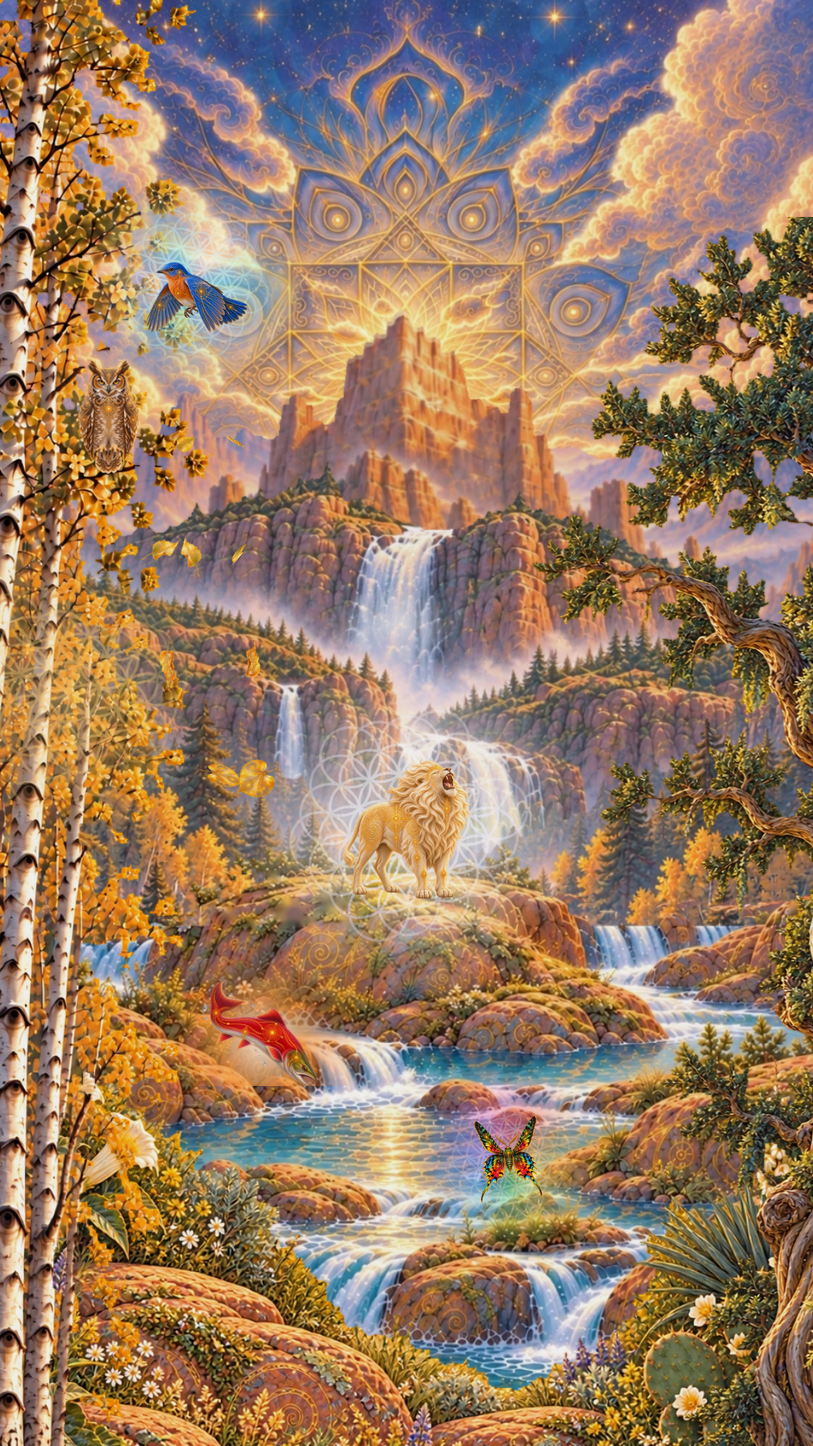
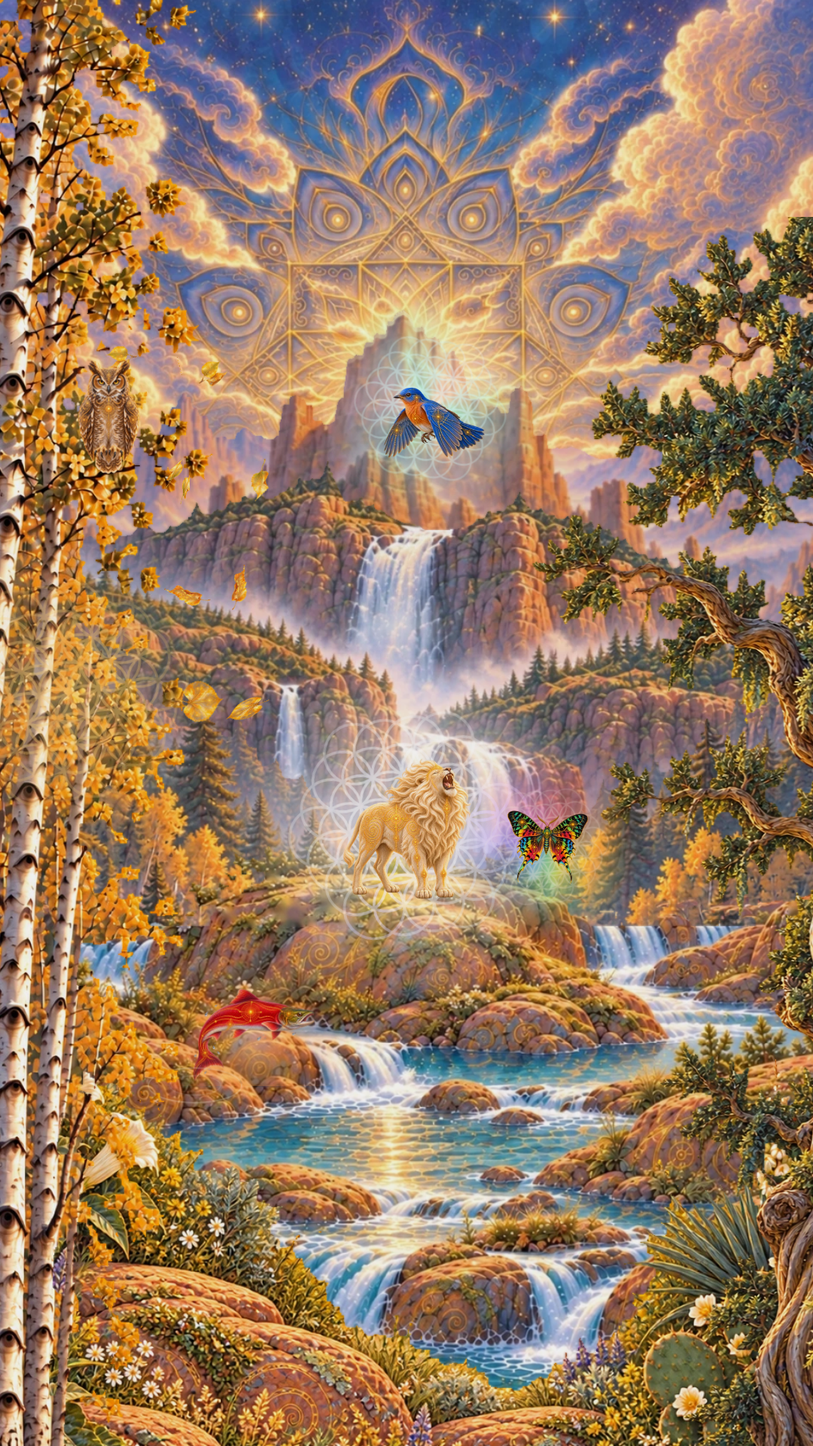
Roar retimed: finale frame at 1.35s (bluebird halfway across), shake and ripples done before it; lolo rests higher, salmon peaks on the frame, softer salmon halo
Claude-Session: https://claude.ai/code/session_01X5u2D9a4RRbbCvwnE6RQKF

diff --git a/frontend/src/components/site/journeyEngine.js b/frontend/src/components/site/journeyEngine.js
@@ -126,7 +126,7 @@ const BUTTERFLY_FLY_S = 9, HATCH_S = [1.3, 2.4];   // [unfolding, gliding down t
 // where Burnell's big butterfly used to wander, over the water (juniper coordinates), and its rest
 // on the cactus flower once the lion forms (the roar sends it up from there)
 const mothWander = (t) => ({ x: 135 + 1.2 * (60 * Math.sin(t * 0.55) + 18 * Math.sin(t * 1.7)), y: 1074 + 38 * Math.sin(t * 0.85), rot: 10 * Math.cos(t * 0.55) });
-const MOTH_REST = [600, 1232];
+const MOTH_REST = [530, 914];   // on the rocks right of the river, mid-frame: at the finale frame the roar has lifted it beside the lion
 const OWL_LOOK_MS = 600, OWL_HOLD_MS = 4200;
 // One beat at a time, on the world's clock (T, seconds since the world opened), every 15s: the near
 // flock crosses (every other beat).
@@ -141,7 +141,7 @@ const SALMON_SURF_U = (1 - Math.sqrt(1 - 4 * SALMON_DEPTH / SALMON_RISE)) / 2;
 const salmonU = (T) => { const s = ((T % SALMON_EVERY_S) + SALMON_EVERY_S) % SALMON_EVERY_S; return (s - SALMON_AT) / SALMON_LEAP_S; };
 // the roar makes the salmon leap once on its own clock (c.roarAt), peaking at the finale's first frame
 const leapU = (c, t, T) => (c.roarAt ? (t - c.roarAt) / SALMON_LEAP_S : salmonU(T));
-const ROAR_LEAP_S = 2.0 - SALMON_LEAP_S / 2;   // leap starts this long after the roar: top of the arc at 2s
+const ROAR_LEAP_S = 1.35 - SALMON_LEAP_S / 2;   // leap starts this long after the roar: top of the arc at FINALE_AFTER_MS
 // the bison's abundance: flowers that bloom in the grass around its hooves when it's called
 // ([x %, y % of the ground ring, size, delay s, petal colour])
 const BLOOMS = [[0, 64, 1, .35, "#fff6e6"], [14, 26, .8, .5, "#ffe2a8"], [30, 84, 1.1, .2, "#fff6e6"], [46, 14, .75, .65, "#ffd9e4"],
@@ -294,7 +294,7 @@ const BUBBLE_AFTER_MS = 10000;
 const ROAR_MS = 3200;
 // the climax: everything settles (FOCUS_MS) before the lion may roar; the finale clip would start
 // FINALE_AFTER_MS into the roar, once the shake and the ripples have settled on the still frame
-const FOCUS_MS = 120, FINALE_AFTER_MS = 2000, CHARGE_MS = 380, SETTLE_MS = 450, RETURN_S = 1.6;
+const FOCUS_MS = 120, FINALE_AFTER_MS = 1350, CHARGE_MS = 380, SETTLE_MS = 450, RETURN_S = 1.6;
 // simple line icons of each totem's face, drawn in gold
 const TOTEM_ICON = Object.fromEntries(Object.entries({"bison": "<path d=\"M7 7.2C5 7.2 3.4 5.6 3.6 3.4M17 7.2c2 0 3.6-1.6 3.4-3.8\"/><path d=\"M7 7.2c1.5-.9 3-1.3 5-1.3s3.5.4 5 1.3c.8 2.5.5 5.1-1 7.5l-1.5 3.1c-.6 1.2-1.5 1.8-2.5 1.8s-1.9-.6-2.5-1.8L8 14.7C6.5 12.3 6.2 9.7 7 7.2z\"/><circle cx=\"9.6\" cy=\"10.6\" r=\".6\" fill=\"currentColor\"/><circle cx=\"14.4\" cy=\"10.6\" r=\".6\" fill=\"currentColor\"/><path d=\"M10.6 17.2h2.8\"/>", "bluebird": "<path d=\"M4.5 14c2-4 6-6 9.8-5 1.9.5 3 1.9 3.5 3.3L21 12l-3.1 1.6c-.6 2.9-3.1 4.9-6.6 4.9-3.4 0-5.6-1.7-6.8-4.5z\"/><path d=\"M8.8 13.4c2-1.2 4.2-1.2 6 .1\"/><path d=\"M4.5 14l-2.3 2.4\"/><circle cx=\"16\" cy=\"11\" r=\".6\" fill=\"currentColor\"/>", "butterfly": "<path d=\"M12 8v10\"/><path d=\"M12 9.5C9.3 4.6 4.2 4.6 4.2 8.2c0 3 4 4.6 7.8 3.2\"/><path d=\"M12 9.5c2.7-4.9 7.8-4.9 7.8-1.3 0 3-4 4.6-7.8 3.2\"/><path d=\"M12 12.4c-2.8.7-5.5 2.6-4.8 5.1.7 2.4 3.6-.7 4.8-3.4\"/><path d=\"M12 12.4c2.8.7 5.5 2.6 4.8 5.1-.7 2.4-3.6-.7-4.8-3.4\"/><path d=\"M11.6 8.2L10 5.4M12.4 8.2L14 5.4\"/>", "owl": "<path d=\"M6.2 5.2l1.9 2.9M17.8 5.2l-1.9 2.9\"/><path d=\"M6 8.3c0-.8 2.6-1.7 6-1.7s6 .9 6 1.7v6c0 4-2.7 7-6 7s-6-3-6-7z\"/><circle cx=\"9.3\" cy=\"11.3\" r=\"2.1\"/><circle cx=\"14.7\" cy=\"11.3\" r=\"2.1\"/><path d=\"M12 13.4l-.8 1.2h1.6z\"/>", "lion": "<path d=\"M12 2.8c.9 1 1.3 2 1.2 3M12 2.8c-.9 1-1.3 2-1.2 3M9.3 4.2c.4 1.2 1.1 2 2 2.4M14.7 4.2c-.4 1.2-1.1 2-2 2.4\"/><path d=\"M9 5.6C6.6 6 4.8 8 4.6 10.6c-.2 2.4.8 4.6 2.6 6.1l1.8 1.6L12 21.4l3-3.1 1.8-1.6c1.8-1.5 2.8-3.7 2.6-6.1C19.2 8 17.4 6 15 5.6\"/><path d=\"M8.4 9.2c1-1.1 2.2-1.6 3.6-1.6s2.6.5 3.6 1.6v3.2c0 2-1.6 3.8-3.6 3.8s-3.6-1.8-3.6-3.8z\"/><circle cx=\"12\" cy=\"9.3\" r=\".9\"/><path d=\"M9.7 11.3l1.2.3M14.3 11.3l-1.2.3\"/><path d=\"M11.1 13.2h1.8l-.9 1z\"/><path d=\"M12 14.2v.7M11 15.4c.3.3.6.4 1 .4s.7-.1 1-.4\"/>", "salmon": "<path d=\"M3.5 12c2.4-3.4 6-5.2 10-5.2 2.8 0 4.9 1.4 6.5 3.2-1.6 1.8-3.7 3.2-6.5 3.2-1 0-2-.1-2.9-.4\"/><path d=\"M3.5 12c2.4 3.4 6 5.2 10 5.2 2.8 0 4.9-1.4 6.5-3.2\"/><path d=\"M3.5 12l-1.8-2.6M3.5 12l-1.8 2.6\"/><circle cx=\"16.6\" cy=\"10.8\" r=\".6\" fill=\"currentColor\"/><path d=\"M11 7.4l1.6-2.1M10 16.6l1.4 1.8\"/>"}).map(([k, d]) =>
   [k, `<svg viewBox="0 0 24 24" fill="none" stroke="currentColor" stroke-width="1.3" stroke-linecap="round" stroke-linejoin="round">${d}</svg>`]));

diff --git a/frontend/src/components/site/journeyEngine.css b/frontend/src/components/site/journeyEngine.css
@@ -526,12 +526,12 @@ html.tj-flier-hover, html.tj-flier-hover * { cursor: pointer; }
 .tj.transforming .tj-cr-lion .burst { animation: tj-burst 1.9s ease-out forwards; }
 @keyframes tj-burst { 0% { opacity: 0; transform: scale(.3); } 45% { opacity: 1; transform: scale(1); } 100% { opacity: 0; transform: scale(1.3); } }
 /* the roar: the world shakes and the sky flares gold */
-.tj.roaring .tj-worldStage { animation: tj-shake .05s linear 22 both; }   /* tight, fast, strong tremor, ~1.1s */
+.tj.roaring .tj-worldStage { animation: tj-shake .05s linear 18 both; }   /* tight, fast, strong tremor, ~0.9s */
 @keyframes tj-shake { 0% { transform: translate3d(0, 0, 0); } 25% { transform: translate3d(-4px, 2.5px, 0); } 50% { transform: translate3d(3.5px, -3px, 0); }
   75% { transform: translate3d(-3px, -2px, 0); } 100% { transform: translate3d(0, 0, 0); } }
 .tj-worldStage::after { content: ""; position: absolute; inset: 0; pointer-events: none; opacity: 0;
   background: radial-gradient(ellipse 90% 60% at 50% 20%, rgba(255,226,150,.65), rgba(255,200,110,.2) 50%, transparent 80%); }
-.tj.roaring .tj-worldStage::after { animation: tj-flare 1.8s ease-out forwards; }
+.tj.roaring .tj-worldStage::after { animation: tj-flare 1.3s ease-out forwards; }
 @keyframes tj-flare { 0% { opacity: 0; } 15% { opacity: 1; } 100% { opacity: 0; } }
 .tj-awaken small { display: block; margin-top: 14px; font: 400 12px/1.4 var(--tj-display); letter-spacing: .32em; color: #f2dca5; }
 @media (prefers-reduced-motion: reduce) { .tj.roaring .tj-worldStage { animation: none; } }
@@ -566,7 +566,7 @@ html.tj-flier-hover, html.tj-flier-hover * { cursor: pointer; }
 .tj-cr-roarwave .geo { position: absolute; inset: 0; }
 .tj-cr-roarwave .geo svg { position: absolute; inset: 0; width: 100%; height: 100%; display: block; }
 .tj-cr-roarwave .geo svg g { stroke: #ffe2a0; stroke-width: .7; }
-.tj.roaring .tj-cr-roarwave .wave { animation: tj-roarWave 1.35s cubic-bezier(.2,.6,.3,1) calc(.12s + var(--i) * .13s) both; }   /* once his head is up; gone by ~2.1s */
+.tj.roaring .tj-cr-roarwave .wave { animation: tj-roarWave .9s cubic-bezier(.2,.6,.3,1) calc(.1s + var(--i) * .08s) both; }   /* once his head is up; gone by ~1.25s, before the finale frame */
 .tj-cr-roarwave.over .tj-crBody { opacity: .35; }   /* over the lion: he stays clear through his own rings */
 @keyframes tj-roarWave { 0% { opacity: 0; transform: scale(.25) rotate(0deg); } 12% { opacity: .95; } 100% { opacity: 0; transform: scale(5.5) rotate(30deg); } }
 
@@ -727,5 +727,5 @@ html.tj-flier-hover, html.tj-flier-hover * { cursor: pointer; }
 .tj-cr-butterfly.landed .geo svg g, .tj-cr-cocoon .geo svg g { stroke: #fff6ea; }
 .tj-cr-butterfly.landed.flying .aura { opacity: 1; }   /* it wanders now: the rainbow goes with it */
 /* the salmon: orange and white, a halo that rides the leap (cut off at the surface like the fish) */
-.tj-cr-salmon .fish .halo { position: absolute; left: -30%; top: -30%; width: 160%; height: 160%; border-radius: 50%; opacity: .9;
-  background: radial-gradient(closest-side, rgba(255,255,255,.9), rgba(255,160,70,.75) 40%, rgba(255,120,40,.3) 68%, transparent 100%); }
+.tj-cr-salmon .fish .halo { position: absolute; left: -30%; top: -30%; width: 160%; height: 160%; border-radius: 50%; opacity: .7;
+  background: radial-gradient(closest-side, rgba(255,246,232,.55), rgba(255,160,70,.5) 35%, rgba(255,120,40,.22) 65%, transparent 100%); }
